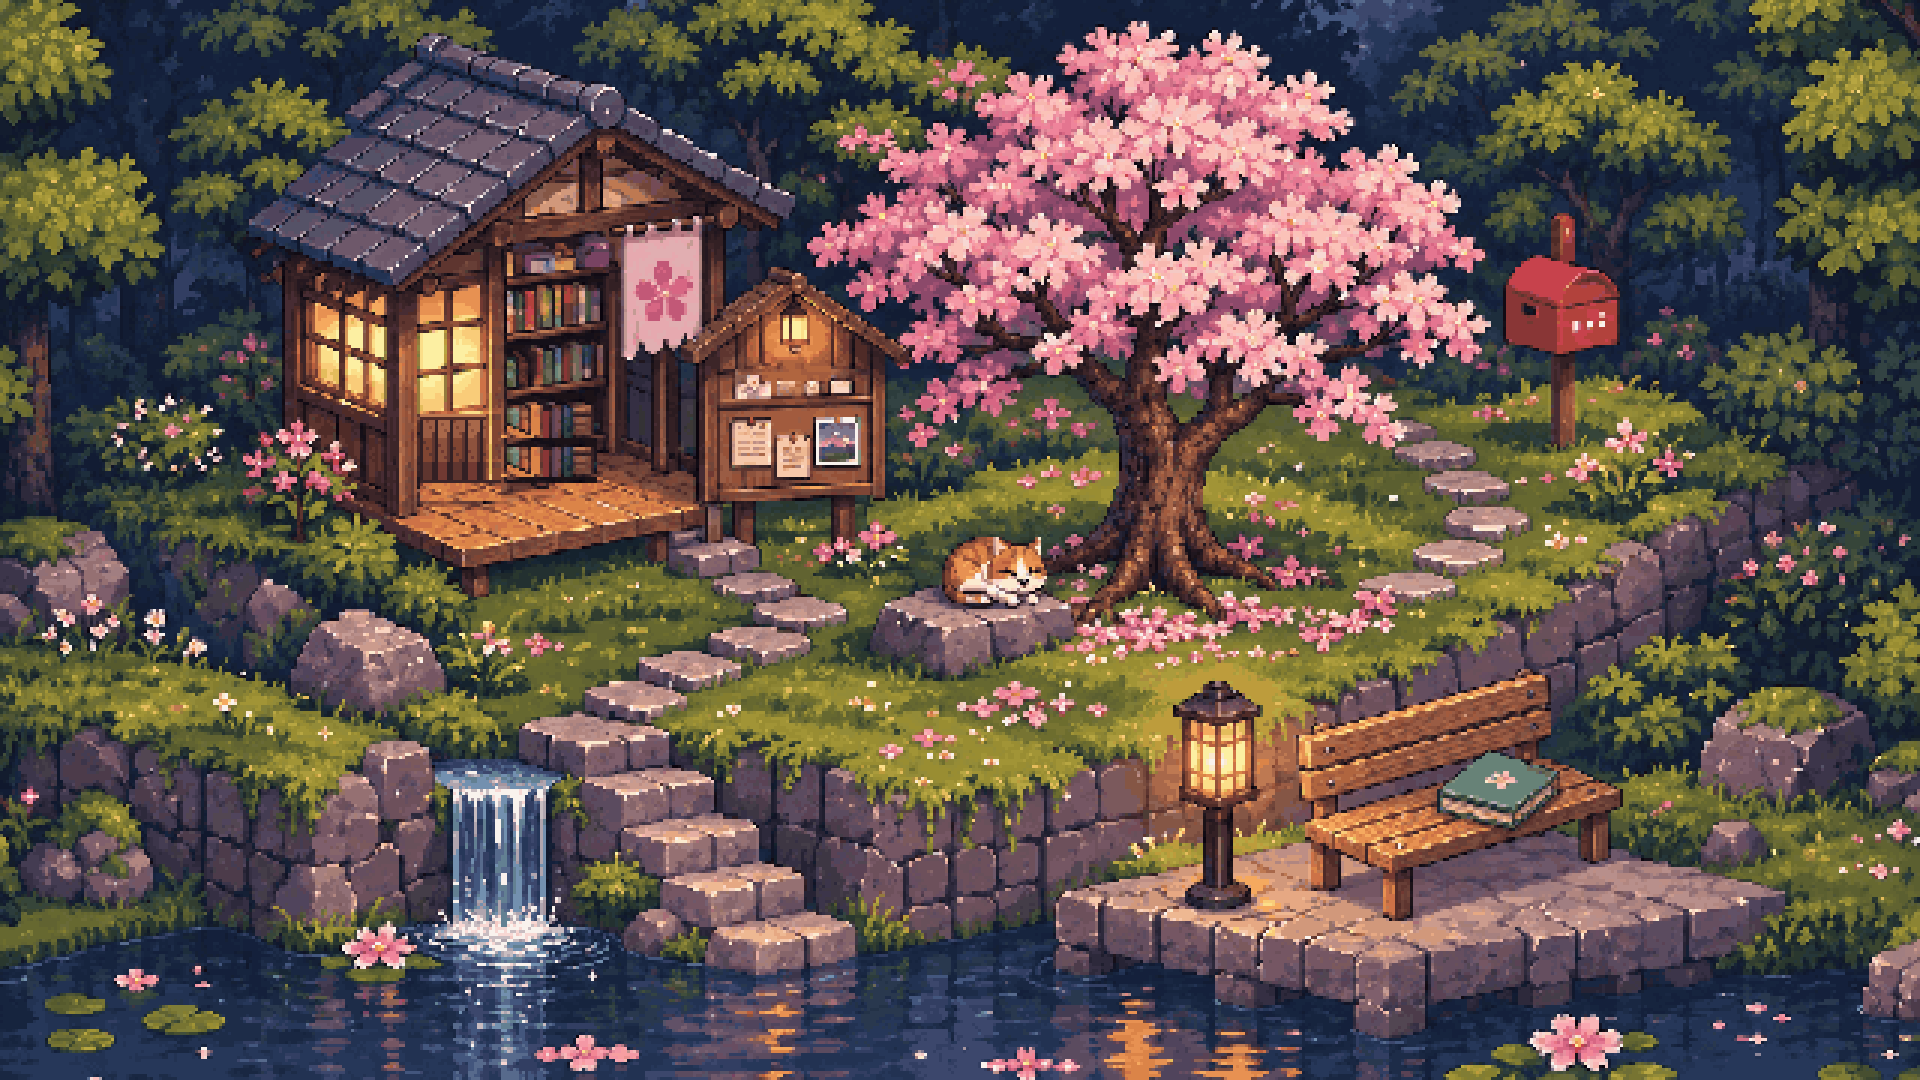
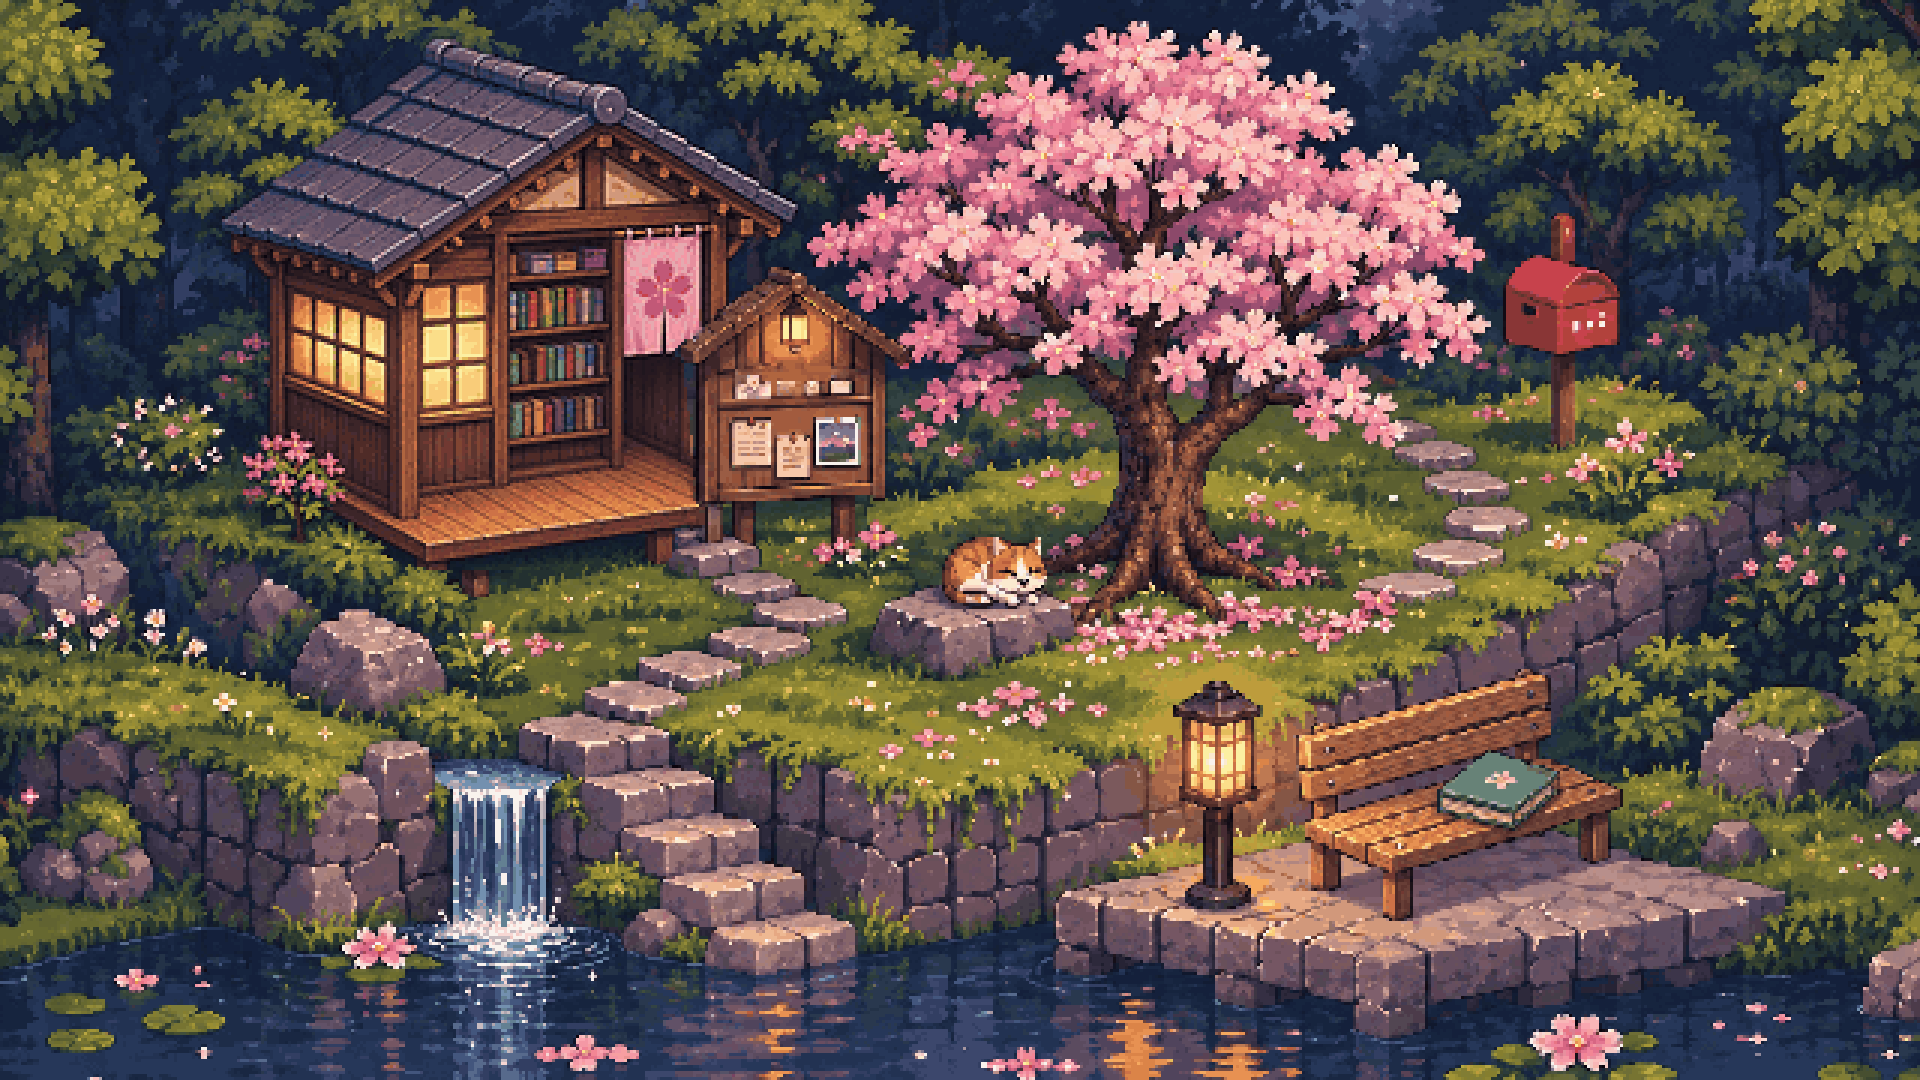
small fix with final picture

Changed region(s): [[0.0938, 0.0306, 0.4375, 0.55]]

diff --git a/garden/animations/glow/build_glow.py b/garden/animations/glow/build_glow.py
@@ -1,0 +1,44 @@
+"""Build the window and pier lantern loops on the final garden's native grid."""
+from pathlib import Path
+import numpy as np
+from PIL import Image
+
+HERE = Path(__file__).resolve().parent
+base = np.array(Image.open(HERE / "../../final/garden-final-640x360.png").convert("RGB"))
+palette, indices = np.unique(base.reshape(-1, 3), axis=0, return_inverse=True)
+native = indices.reshape(base.shape[:2]).astype("uint8")
+gif_palette = palette.tobytes().ljust(768, b'\0')
+frames = []
+sheets = {}
+for i in range(48):
+    frame = native.copy()
+    phase = 2 * np.pi * i / 48
+    for name, (x, y, w, h), wave in [
+        ("window", (98, 93, 65, 48), .75*np.sin(phase) + .25*np.sin(2*phase)),
+        ("lantern", (393, 237, 24, 32), .53*np.sin(2*phase) + .30*np.sin(5*phase) + .17*np.sin(7*phase)),
+    ]:
+        colors = base[y:y+h, x:x+w].astype(float)
+        red, green, blue = colors.transpose(2, 0, 1)
+        lit = (red > 174) & (green > 72) & (green > blue*1.25) & (red > green*1.05)
+        yy, xx = np.mgrid[:h, :w]
+        if name == "window":
+            lit &= ((xx < 31) & (yy >= 3) & (yy < 29+xx*.44)) | ((xx > 40) & (yy < 44))
+            strength = 18
+        else:
+            lit &= (xx >= 3) & (xx <= 21) & (yy >= 3) & (yy <= 27)
+            strength = 34
+        target = colors[lit] + strength*wave*np.array([.64, 1, .75])
+        matches = ((target[:, None] - palette.astype(float))**2).sum(axis=2).argmin(axis=1)
+        patch = frame[y:y+h, x:x+w]
+        patch[lit] = matches
+        overlay = Image.fromarray(np.dstack([palette[patch], 255*(patch != native[y:y+h,x:x+w]).astype("uint8")]))
+        if i == 0:
+            sheets[name] = Image.new("RGBA", (w*8, h*6))
+        sheets[name].paste(overlay, (i%8*w, i//8*h))
+    view = Image.frombytes("P",(640,360),frame.tobytes())
+    view.putpalette(gif_palette)
+    frames.append(view)
+for name, sheet in sheets.items():
+    sheet.save(HERE / (name + "-sheet.png"))
+frames[0].save(HERE / "glow-preview.gif", save_all=True, append_images=frames[1:],
+               duration=100, loop=0, optimize=False, disposal=1)

diff --git a/garden/final/FINAL.md b/garden/final/FINAL.md
@@ -31,3 +31,14 @@ _Background: `garden-wide-v12.png` (redrawn hut), an exact 3× enlargement of th
 - Frame position in the sheet: column = frame % 12, row = floor(frame / 12).
 - The overlay does not change the cat's pixels, but its rectangle covers that area: draw any cat animation above this layer.
 - Settings (position, size, fps) are in `animations/sakura/sakura-sway.json`.
+
+## Lantern and window glow
+
+Use the two transparent sheets in `animations/glow/` over the 640 × 360 master.
+Both contain 48 frames in 8 columns and 6 rows, looping every 4.8 seconds
+at 100 ms per frame. Clear each overlay before drawing its next frame.
+
+| Sheet | Native position (x, y) | Frame size |
+| --- | --- | --- |
+| `window-sheet.png` | (98, 93) | 65 × 48 |
+| `lantern-sheet.png` | (393, 237) | 24 × 32 |

diff --git a/garden/README.md b/garden/README.md
@@ -8,4 +8,6 @@ Everything for the pixel-art garden background of the portfolio site.
 - `references/`: the original picture with signs, the sign-free style reference, the mockup, the layout guide and the image prompt used during the redesign.
 - `references/concepts/`: concept images for the pages still to build (Projects workshop, Experience board and album, About album, Contact postcard, homepage directions, lighting modes).
 
-Still to animate: lantern and window glow, pond shimmer, fireflies, drifting petals, the cat.
+- `animations/glow/`: workshop window glow and pier lantern flicker, with transparent sheets and a full-scene preview.
+
+Still to animate: pond shimmer, fireflies, drifting petals, the cat.
